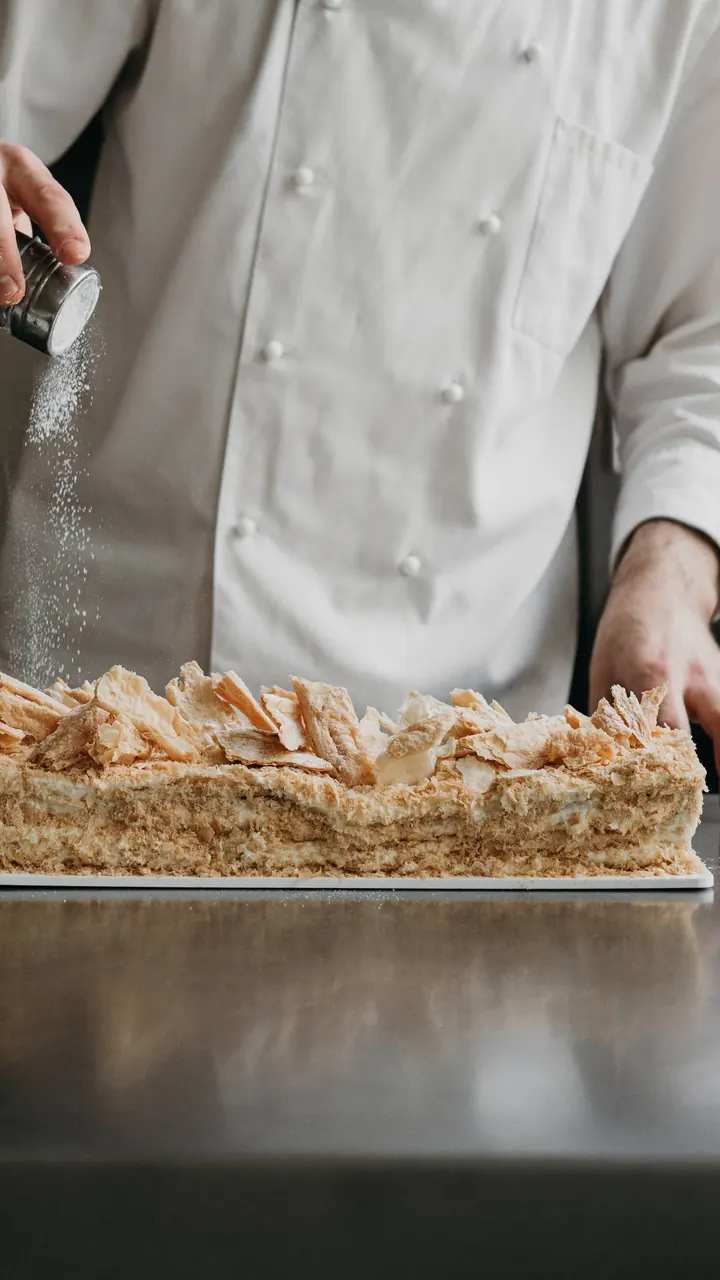
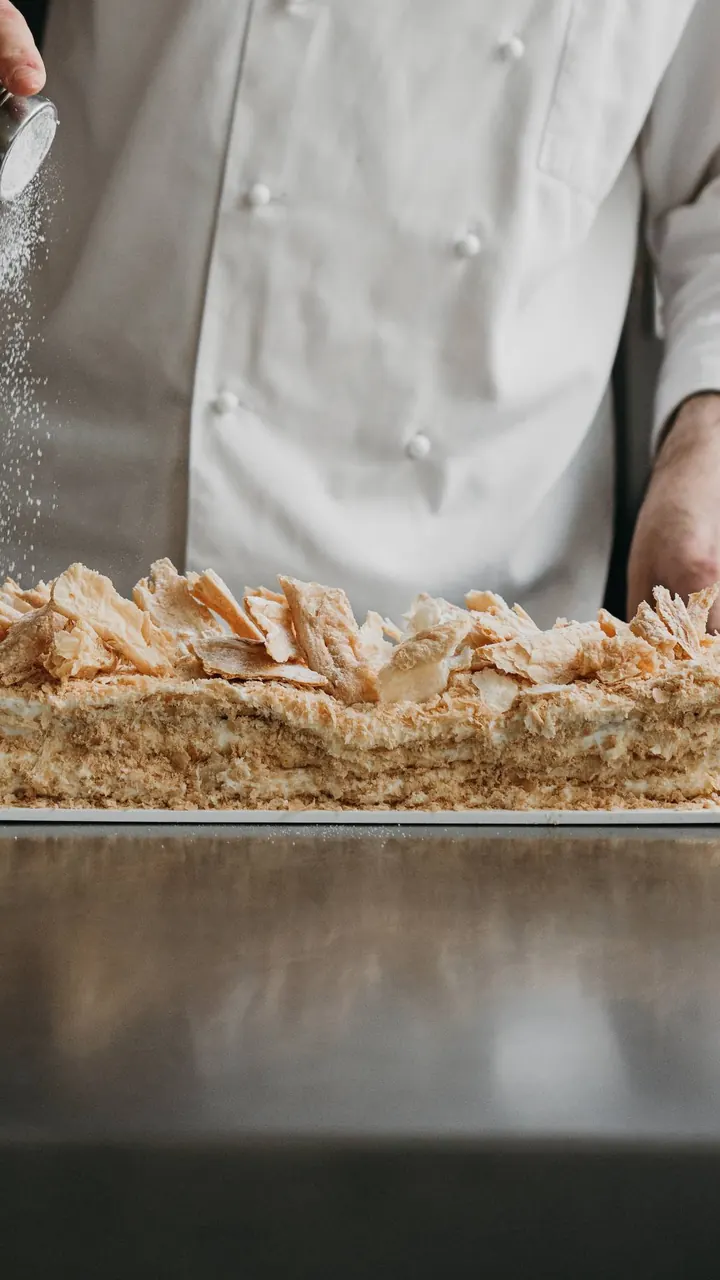
Кадрирование: для праздника, большие форматы

diff --git a/index.html b/index.html
@@ -1233,6 +1233,8 @@ html.is-loading, html.is-loading body { overflow: hidden; }
   .hero-b .hb-fact .fi { color: var(--c-logo); }
   .toc--b a span { font-size: min(1.9rem, 7.3vw); }   /* «кондитерский кейтеринг» помещается и на 360 px */
 }
+.pick--party .pick-media img { object-position: 50% 8%; }   /* в кадре тарт, а не драпировка стола (Никита 19.11) */
+img[src$="napoleon-columns.webp"] { object-position: 50% 92%; }   /* наполеон внизу кадра виден целиком (Никита 19.11) */
 /* Логотип на бордовом — персиковый, как на стакане (макет клиента 19.11: фон C0 M85 Y72 K71 → #651F1F, знак C0 M47 Y56 K9 → #E1946A) */
 :root { --c-logo: #E1946A; }
 .hb-brand, .hb-brand .hb-logo, .hb-brand .logo-sub, .brand, .brand .logo, .brand .logo-sub, .fx-logo, .fx-slot svg { color: var(--c-logo); }
